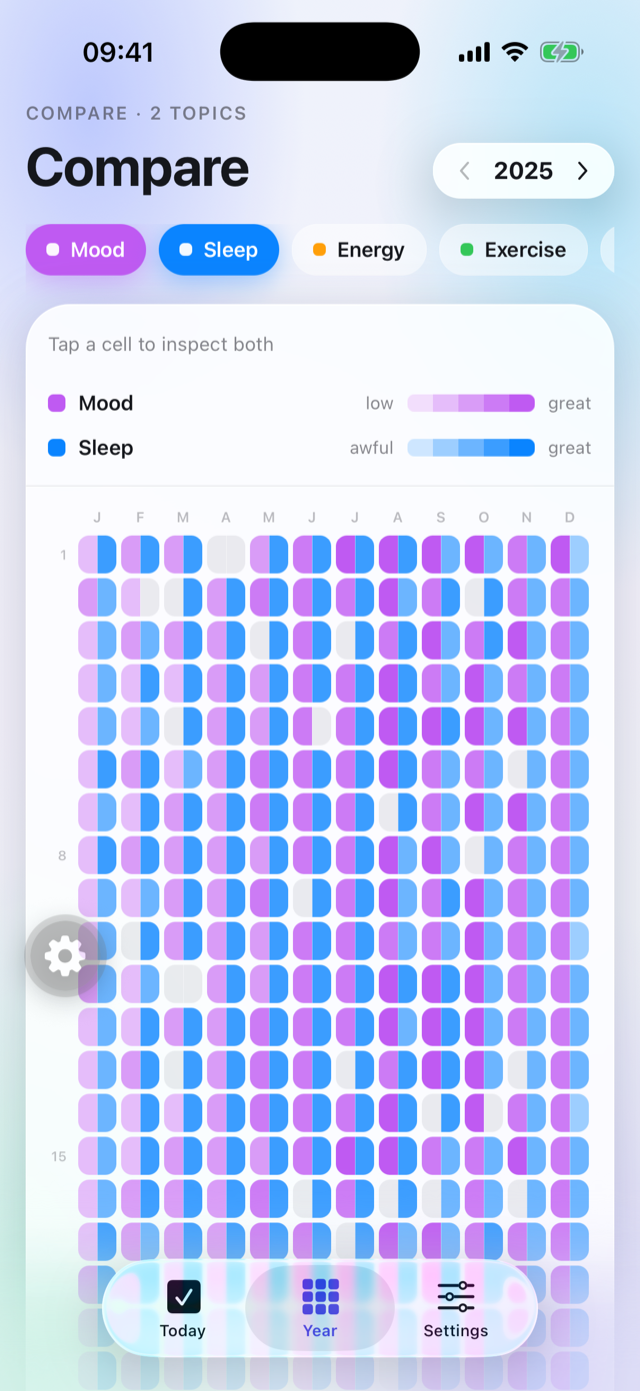
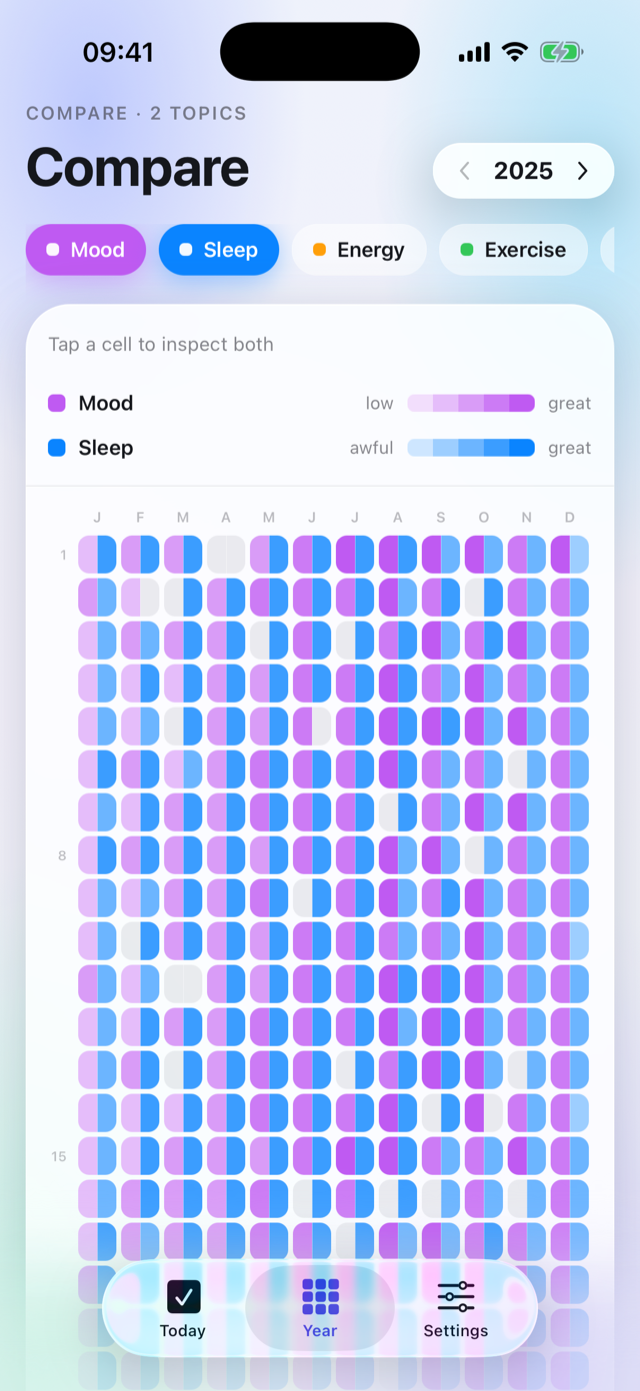
docs(web): simplify principle copy and use gear-free screenshots
Recapture Quick-Log, year, and overlay from a Release build so the
expo-dev-client floating menu button no longer appears. Reword the
'Nothing is lost' card and the step-1 missing-day line in plain language.

Changed region(s): [[0.0312, 0.6492, 0.1875, 0.7419]]

diff --git a/docs/index.html b/docs/index.html
@@ -82,8 +82,8 @@
                 Define the topics you care about — each with a scale that fits,
                 from a simple yes/no to five levels like “low → great.” Then one
                 scrollable screen lists them all; tap to record the day. Nothing
-                is pre-selected, so “not logged” is never mistaken for a real
-                value. A daily reminder nudges you at a time you choose.
+                is filled in for you, so a day you skip simply stays blank. A
+                daily reminder nudges you at a time you choose.
               </p>
             </div>
             <div class="step-art">
@@ -192,8 +192,8 @@
             <div class="ico">↩</div>
             <h3>Nothing is lost</h3>
             <p>
-              Edits append to a history rather than overwriting it, so you can
-              change a past day without rewriting the record.
+              Made a mistake? Go back and fix any past day, anytime. Your record
+              stays complete.
             </p>
           </article>
 
